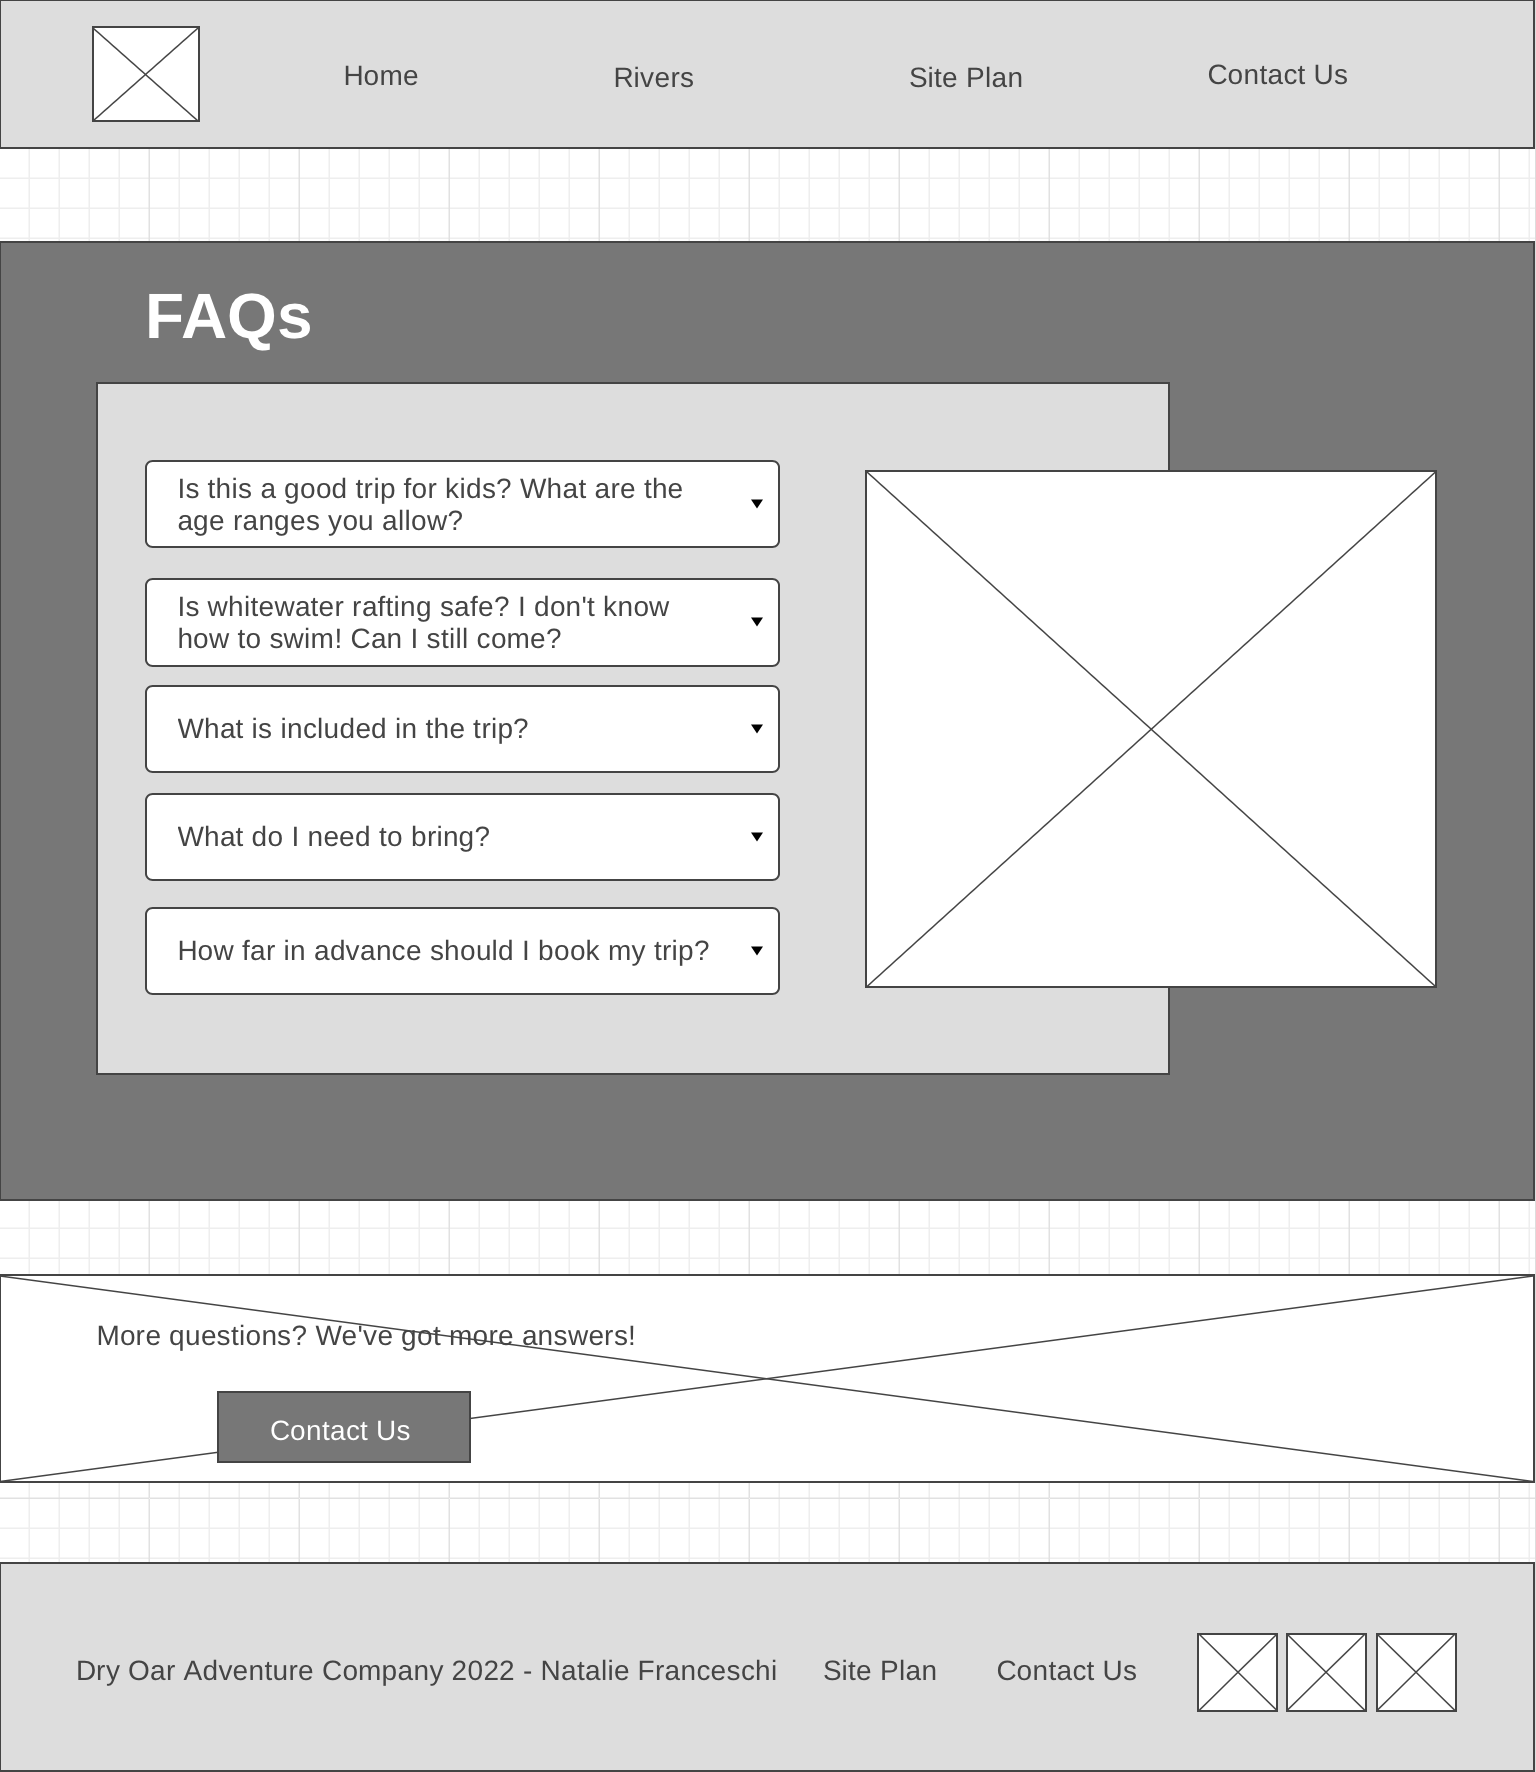
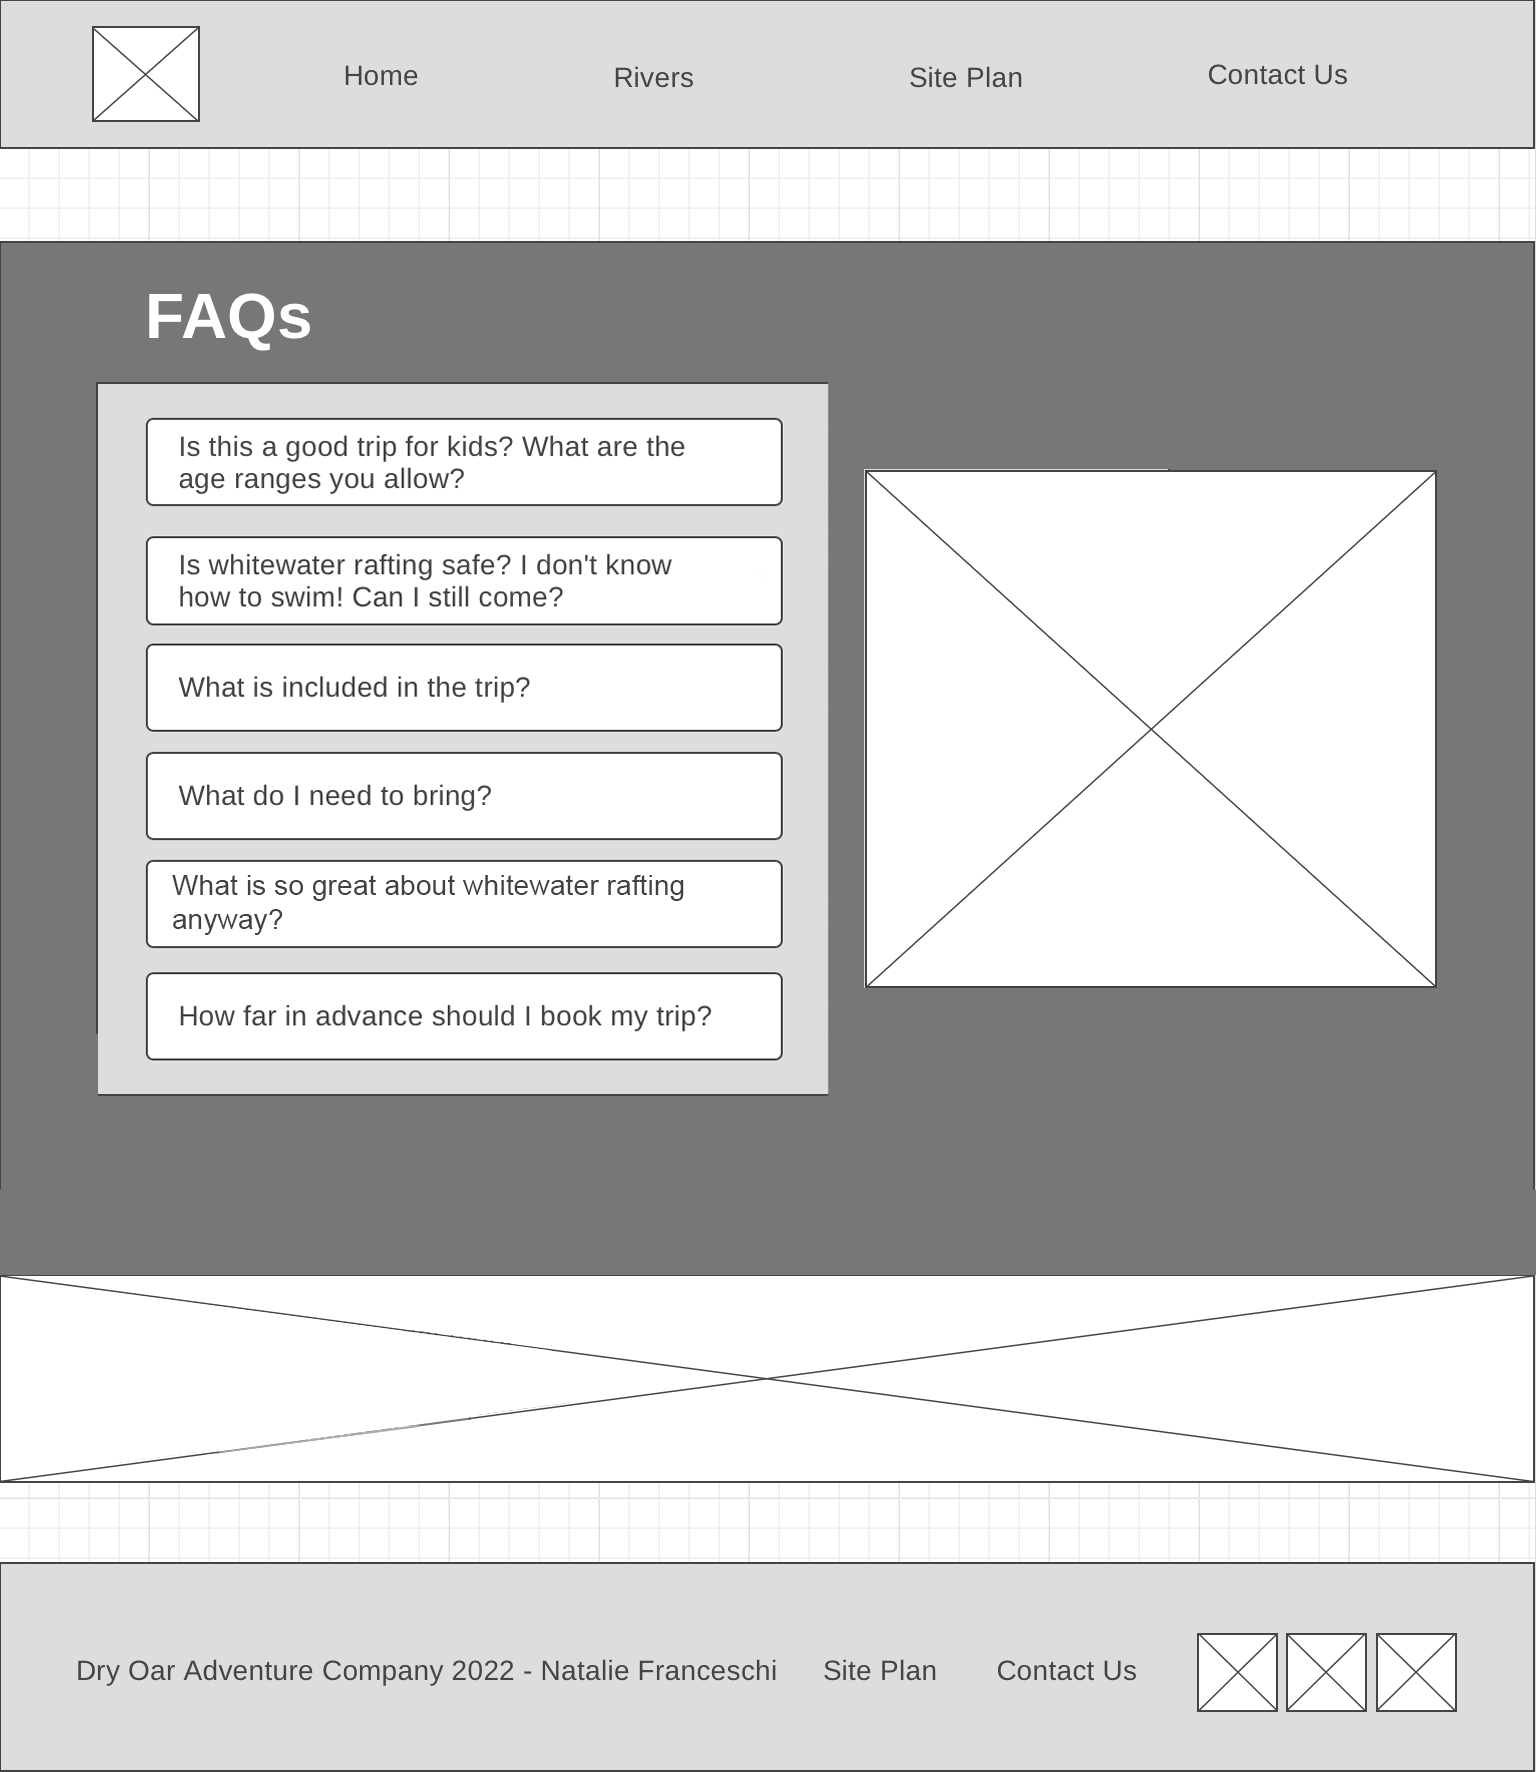
faqs subpage added

Changed region(s): [[0.0625, 0.2173, 0.7812, 0.6208], [0.0, 0.6518, 1.0, 0.838]]

diff --git a/wwr/faqs.html b/wwr/faqs.html
@@ -1,0 +1,91 @@
+<!DOCTYPE html>
+<html lang="en">
+<head>
+    <meta charset="UTF-8">
+    <meta http-equiv="X-UA-Compatible" content="IE=edge">
+    <meta name="viewport" content="width=device-width, initial-scale=1.0">
+    <title>Dry Oar Adventure Company | Home</title>
+    <link rel="stylesheet" href="styles/style.css">
+</head>
+<body>
+    <div id="content">
+        <header>
+            <a id="logo_link" href="index.html">
+                <img class="logo" src="images/logo.png" alt="Dry Oar Logo">
+            </a>
+            <nav>
+                <a href="index.html">Home</a>
+                <a href="faqs.html">FAQs</a>
+                <a href="site-plan-rafting.html">Site Plan</a>
+                <a href="contactus.html">Contact Us</a>
+            </nav>
+        </header>
+        <main class="faqs-grid">
+            <div><h3>FAQs</h3></div>
+            <div id="background">
+            <img class="faqs-img" src="images/faqs photo 1.png" alt="People enjoying white water rafting">                 
+            <div class="faqs-box">  
+                <div class="dropdown dropbtn1">
+                    <button class="btntext">Is this a good trip for kids? What are the age ranges you allow?</button>
+                    <div class="dropdown-content">
+                    <a href="#">Absolutely this is a good trip for children of all ages. We have found however that children over the age of 8 seem to enjoy it more overall (And parents especially enjoy it more if their children are all over 8). A common concern we get from parents is that their children will be bored stuck on a boat for hours at a time. Surprisingly we deal with very few bored children of any age. The areas we are rafting through are some of the most beautiful in the world, and you never know what you might see around any corner. Not to mention the rapids which keep things very interesting. Each boat also comes equipped with a guide. It has been proven that river guides are unable to go for very long at all without telling stories...some of which are even true!</a>
+                    </div>
+                </div>
+                <div class="dropdown dropbtn2">
+                    <button class="btntext">Is whitewater rafting safe? I don't even know how to swim! Can I still come?</button>
+                    <div class="dropdown-content">
+                    <a href="#">As with all adventure sports, there is an inherent and assumed element of risk. To help ensure your safety, our guides are all certified in Wilderness First aid and all start with at least 3 years of rafting experience. The most common injuries are sunburns and injuries that occur on land. 
+                        Everyone on commercial rafting trips wears coast guard approved life vest or personal flotation device (PFD). Many non swimmers go on rafting trips and have a great time. Your guide will give you an in depth and engaging safety talk before your trip begins explaining what you should prepare for and do in the event that you fall out of the raft.</a>
+                    </div>
+                </div>
+                <div class="dropdown dropbtn3">
+                    <button class="btntext">What is included in the trip?</button>
+                    <div class="dropdown-content">
+                    <a href="#">We will provide all necessary camping equipment. This includes a sleeping bag, foam pad, waterproof duffle bag, small waterproof day bag, tent and a cot, eating utensils and camping chair. 
+                        We provided water and lemonade during the day. Coffee, tea and hot chocolate are provided during the morning and evening hours. You may bring beer, liquor and soft drinks (in reasonable amounts, 2 cans per day). You may purchase these items either the night before the trip, or on your way to the put-in. 3 meals per day, plus snacks.</a>
+                    </div>
+                </div>
+                <div class="dropdown dropbtn4">
+                    <button class="btntext">What do I need to bring?</button>
+                    <div class="dropdown-content">
+                    <a href="#">The most effective way to plan for temperature and weather changes in the Canyon is to be prepared for both hot & dry and cold & wet Rain jacket and rain pants- do not bring ponchos Quick dry shirts and shorts long sleeve cotton shirt and pants- helps keep you cooler on hot days. Button down shirts provide more sun protection on the neck Light Weight Cotton Pant, Nylon Pant or Sarong the best thing for men to wear are swim trunks as shorts if you are cold natured, bring polypropylene long underwear top and bottom Women wear swim suits or quick dry underwear and sport bras as a base layer during the day. Over the base layer, wear a pair of quick dry shorts and the shirt of your choice (polypropylene if you are cold, cotton if you are hot). Two piece swim suits are convenient when changing or going to the bathroom. hat- large brim hat offers protection from the sun with a good quality strap. Sunglasses with strap socks- used for hiking and to protect your feet from the sun. sandals or water shoes- if not used to hiking in these, bring a pair of shoes you have hiked in before camper wear: Bring something comfortable to wear around camp. Cotton dresses, skirts and sarongs are all popular options. Sleep wear: You might choose to sleep in your camp wear. Otherwise, you might like to bring something comfortable to sleep in. water bottle small day pack for hikes moisturizing lotion headlamp or flashlight moleskin waterproof sunscreen and lip balm optional items: gloves fleece jacket towel bandana small pillow hygiene products: toothpaste, toothbrush, tissue, nail clippers, feminine hygiene products, extra eyeglasses or contacts, biodegradable soap and shampoo camera equipment book, watercolors, journal and pen.</a>
+                    </div>
+                </div>
+                <div class="dropdown dropbtn5">
+                    <button class="btntext">What is so great about whitewater rafting anyway?</button>
+                    <div class="dropdown-content">
+                    <a href="#">Are you kidding me! What's not great about whitewater rafting!...Let's describe a common day on the river. 
+                        Arise in the soft light of the early morning after a night spent sleeping under a beautiful starry sky. Have a hearty warm breakfast of fresh blueberry pancakes or omelets to order, then pack your things and prepare for the day. The day is filled with some combination of swift water, rapids, calms, hikes, history, geology, stories, and more good food. We try to hit camp around 4 or 5, after setting up your cot you can relax with a good book or good company by the river, or explore around camp while your guides prepare your dinner...something perhaps like steak and potatoes, or grilled salmon...and dutch oven brownies...you won't forget the dutch oven brownies. After dinner it's more relaxing, and you might even be able to talk your guide into another story or two to send you off to bed under more stars than you thought were possible.</a>
+                    </div>
+                </div> 
+                <div class="dropdown dropbtn6">
+                    <button class="btntext">How far in advance should I book my trip?</button>
+                    <div class="dropdown-content">
+                    <a href="#">If you have specific dates you need, we recommend booking a year in advance. If you can be more flexible 6 months in advance is usually sufficient.</a>
+                    </div>
+                </div> 
+            </div> 
+    
+                <img class="large-oar" src="images/large oar.png" alt="People enjoying white water rafting">                 
+
+        </main>
+                
+        <footer>
+            <p>Dry Oar Adventure Company&copy; 2022 - Natalie Franceschi</p>
+            <p><a href="site-plan-rafting.html">Site Plan</a></p>
+            <p><a href="contactus.html">Contact Us</a></p>
+            <div class="social">
+                <a href="https://facebook.com" target="_blank">
+                    <img src="images/facebook.png" alt="fb icon">
+                </a>
+                <a href="https://twitter.com" target="_blank">
+                    <img src="images/twitter.png" alt="twitter icon">
+                </a>
+                <a href="https://instagram.com" target="_blank">
+                    <img src="images/instagram.png" alt="instagram icon">
+                </a>
+            </div>
+        </footer>
+    </div>
+</body>            
+</html>

diff --git a/wwr/styles/style.css b/wwr/styles/style.css
@@ -7,8 +7,11 @@
 #background {
   background-color: #283618;
   color: #fefae0;
+  grid-column: 1/11;
+  grid-row: 4/9;
   height: 725px;
 }
+
 #hero-img {
   width: 100%
 }
@@ -188,7 +191,7 @@ footer {
   background-color: #606C38;
   color: #fefae0;
   padding: 25px 50px;
-  margin-top: 200px;
+  margin-top: 250px;
   display: flex;
   justify-content: space-around;
   align-items: center;
@@ -212,6 +215,199 @@ footer .social img {
   padding-top: 15px;
 }
 
+
+/* -----------------FAQS PAGE BEGINS------------------ */
+h3{
+  /* text-align: left; */
+  padding-top: 40px;
+  margin-left: 105px;
+  font-size: 36px;
+}
+h5 {
+  color: #DDA15E;
+  text-shadow:
+    3px 3px 0 #283618,
+    -1px -1px 0 #283618,  
+    1px -1px 0 #283618,
+    -1px 1px 0 #283618,
+    1px 1px 0 #283618;
+  text-align: center;
+}
+.faqs-grid {
+
+  background-color: #283618;
+  /* max-width:100%; */
+  /* width: 100vw; */
+  margin-top: 200px;
+
+}
+
+.faqs-box {
+  display: inline-grid;
+  grid-template-columns:(1, 400px);
+  grid-template-rows: repeat(6, 1fr);
+  margin-top: 20px;
+  margin-left: 50px;
+  padding: 20px 20px;
+  background-color: #0F4C5C;
+  max-width: 1600px;
+  min-width: fit-content;
+}
+.faqs-img { 
+
+  margin-top: 60px;
+  width:650px;
+  padding-right: 100px;
+  float: right;
+  z-index: 5;
+}
+
+.dropbtn1 {
+  background-color: #606C38;
+  color: #fefae0;
+  padding: 16px;
+  font-size: 16px;
+  border: none;
+  width: 650px;
+  margin-bottom: 10px;
+  margin-left: 30px;
+  margin-right: 30px;
+  grid-column: 1;
+  grid-row: 1;
+
+}
+.dropbtn2 {
+  background-color: #606C38;
+  color: #fefae0;
+  padding: 16px;
+  font-size: 16px;
+  border: none;
+  width: 650px;
+  margin-bottom: 10px;
+  margin-left: 30px;
+  margin-right: 30px;
+  grid-column: 1;
+  grid-row: 2;
+}
+.dropbtn3 {
+  background-color: #606C38;
+  color: #fefae0;
+  padding: 16px;
+  font-size: 16px;
+  border: none;
+  width: 650px;
+  margin-bottom: 10px;
+  margin-left: 30px;
+  margin-right: 30px;
+  grid-column: 1;
+  grid-row: 3;
+}
+.btntext {
+  background-color: #606C38;
+  color: #fefae0;
+  font-size: 19px;
+  width: 100%;
+  height: 100%;
+  padding: 12px;
+  margin: 0;
+}
+
+.dropbtn4 {
+  background-color: #606C38;
+  color: #fefae0;
+  padding: 16px;
+  font-size: 16px;
+  border: none;
+  width: 650px;
+  margin-bottom: 10px;
+  margin-left: 30px;
+  margin-right: 30px;
+  grid-column: 1;
+  grid-row: 4;
+}
+.dropbtn5 {
+  background-color: #606C38;
+  color: #fefae0;
+  padding: 16px;
+  font-size: 16px;
+  border: none;
+  width: 650px;
+  margin-bottom: 10px;
+  margin-left: 30px;
+  margin-right: 30px;
+  grid-column: 1;
+  grid-row: 5;
+}
+.dropbtn6 {
+  background-color: #606C38;
+  color: #fefae0;
+  padding: 16px;
+  font-size: 16px;
+  border: none;
+  width: 650px;
+  margin-bottom: 10px;
+  margin-left: 30px;
+  margin-right: 30px;
+  grid-column: 1;
+  grid-row: 6;
+  /* grid-column: 5/9; */
+}
+.dropdown {
+  position: relative;
+  display: inline-block;
+  padding: 0;
+}
+
+.dropdown-content {
+  display: none;
+  position: absolute;
+  background-color: #FEFAE0;
+  min-width: 160px;
+  box-shadow: 0px 8px 16px 0px rgba(0,0,0,0.2);
+  margin-top: -10px;
+  z-index: 1;
+}
+
+.dropdown-content a {
+  color: #0F4C5C;
+  font-size: 19px;
+  padding: 12px 16px;
+  text-decoration: none;
+  display: block;
+  z-index: 1;
+}
+
+.dropdown-content a:hover {background-color: #FEFAE0;}
+
+.dropdown:hover .dropdown-content {display: block;}
+
+.dropdown:hover .dropbtn {background-color: #606C38;}
+
+.large-oar{
+  padding-left:100px;
+  padding-top: 200px;
+  padding-bottom: 200px;
+  width: 1400px;
+}
+
+
+
+
+
+
+
+
+
+
+
+
+
+
+
+
+
+
+/* ---------------MEDIA BEGINS------------------ */
 
 @media screen and (max-width: 900px) {
   #hero, .home-grid {

diff --git a/wwr/site-plan-rafting.html b/wwr/site-plan-rafting.html
@@ -19,7 +19,7 @@
     <hr />
     <h2>Overview</h2>
     <h3>Purpose</h3>
-    <p>Attract tourists and outdoor sports enthusiasts to book their white water rafting experience through Dry Oar Adventure Company.  This site will suggest packages based on age and experience level.  Users can make reservations directly through the site or contact Dry Oar by chat, email, or phone.  Including a chat box will allow users to easily reach a representative with any questions or concerns, and to customize packages.</p>
+    <p>Attract tourists and outdoor sports enthusiasts to book their white water rafting experience through Dry Oar Adventure Company.  This site will provide useful information for ratfers of all ages and experience levels.  Users can make reservations directly through the site or contact Dry Oar by email, or phone.</p>
     <!-- change this -->
 
     <h3>Audience</h3>

diff --git a/wwr/index.html b/wwr/index.html
@@ -15,7 +15,7 @@
             </a>
             <nav>
                 <a href="index.html">Home</a>
-                <a href="#">Page 2</a>
+                <a href="faqs.html">FAQs</a>
                 <a href="site-plan-rafting.html">Site Plan</a>
                 <a href="contactus.html">Contact Us</a>
             </nav>
